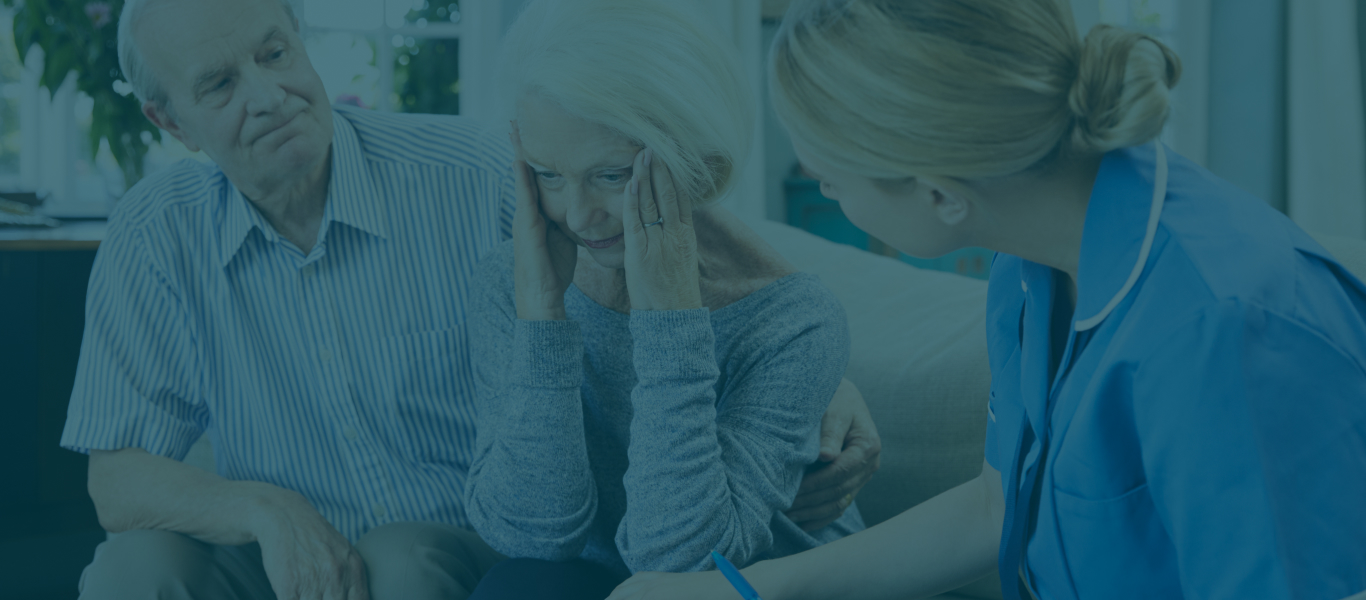
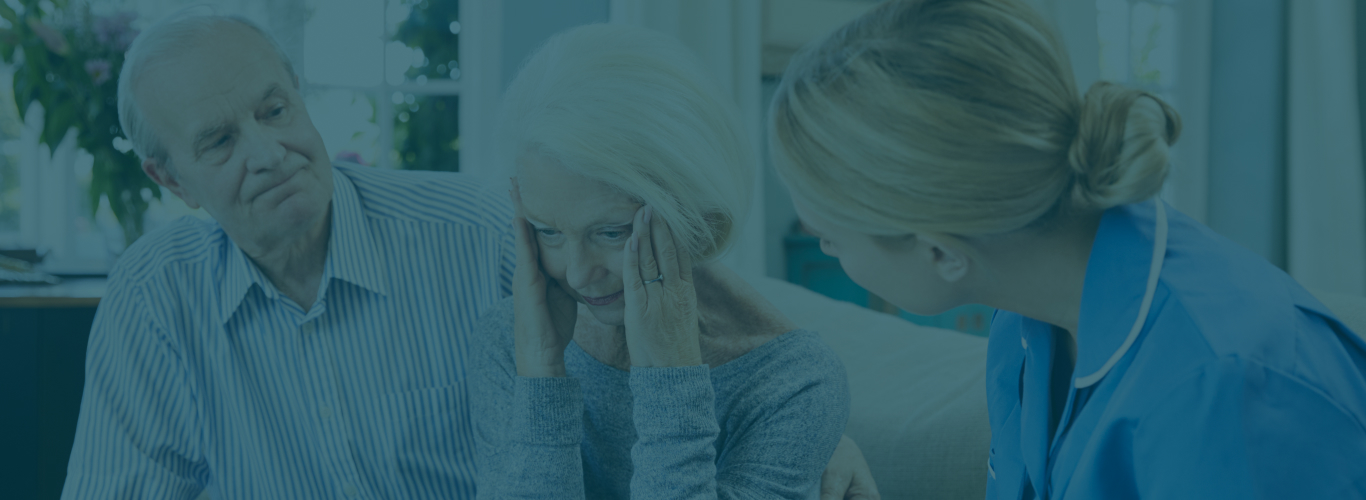
new changes

diff --git a/src/components/HeroBanners.jsx b/src/components/HeroBanners.jsx
@@ -2,14 +2,22 @@ import Carousel from "react-bootstrap/Carousel";
 import Banner_1 from "../assets/Banner_1.jpg";
 import Banner_2 from "../assets/Banner_2.jpg";
 import Banner_3 from "../assets/Banner_3.jpg";
+import Mobile_Banner_1 from "../assets/Mobile_Banner_1.jpg";
+import Mobile_Banner_2 from "../assets/Mobile_Banner_2.jpg";
+import Mobile_Banner_3 from "../assets/Mobile_Banner_3.jpg";
 import { useMediaQuery } from "react-responsive";
 
 function UncontrolledExample() {
-  const isMobile = useMediaQuery({ maxWidth: 768 });
+  const isMobile = useMediaQuery({ maxWidth: 475 });
   return (
     <Carousel>
       <Carousel.Item className="banner">
-        <img src={Banner_1} alt="First slide" className="" />
+        {isMobile ? (
+          <img src={Mobile_Banner_1} alt="First slide" className="" />
+        ) : (
+          <img src={Banner_1} alt="First slide" className="" />
+        )}
+
         <Carousel.Caption className="banner_caption">
           <h1 className={isMobile ? "fs-4 fw-semibold" : "fw-semibold"}>
             Compassion Is At The Heart Of Our Care
@@ -17,7 +25,11 @@ function UncontrolledExample() {
         </Carousel.Caption>
       </Carousel.Item>
       <Carousel.Item className="banner">
-        <img src={Banner_2} alt="First slide" />
+        {isMobile ? (
+          <img src={Mobile_Banner_2} alt="First slide" className="" />
+        ) : (
+          <img src={Banner_2} alt="First slide" className="" />
+        )}
         <Carousel.Caption className="banner_caption">
           <h1 className={isMobile ? "fs-4 fw-semibold" : "fw-semibold"}>
             24 Hours In-Home Care
@@ -25,7 +37,11 @@ function UncontrolledExample() {
         </Carousel.Caption>
       </Carousel.Item>
       <Carousel.Item className="banner">
-        <img src={Banner_3} alt="First slide" />
+        {isMobile ? (
+          <img src={Mobile_Banner_3} alt="First slide" className="" />
+        ) : (
+          <img src={Banner_3} alt="First slide" className="" />
+        )}
         <Carousel.Caption className="banner_caption">
           <h1 className={isMobile ? "fs-4 fw-semibold" : "fw-semibold"}>
             Post-Hospitalization Home Health Care

diff --git a/src/components/NavBar.jsx b/src/components/NavBar.jsx
@@ -3,20 +3,20 @@ import Nav from "react-bootstrap/Nav";
 import Navbar from "react-bootstrap/Navbar";
 import NavDropdown from "react-bootstrap/NavDropdown";
 import { Link } from "react-router-dom";
-import Logo from "../assets/carehub-logo.jpg";
+import Logo from "../assets/logo.png";
 import { useMediaQuery } from "react-responsive";
 
 const services = [
-  "Private at Home Nursing Care Services",
+  "Home Nursing",
   "24 Hours In-Home Care",
-  "Ventilator Care at Home",
-  "Post Hospitalization Home Health Care services",
-  "Nurses that come to your house",
-  "Palliative care Services at home",
+  "Ventilator Care",
+  "Post Hospitalization",
+  "Nurses Visit",
+  "Palliative care",
   "Elderly Care Services",
-  "Post Operative Care Services at Home",
-  "Pediatric Palliative care Services at Home",
-  "Paralytic Care Services at home",
+  "Post Operative Care",
+  "Pediatric Palliative care",
+  "Paralytic Care",
 ];
 
 export default function NavBar() {
@@ -32,7 +32,7 @@ export default function NavBar() {
           id="basic-navbar-nav"
           className={isMobile && "mobile-toggle"}
         >
-          <Nav className="mx-auto nav_item">
+          <Nav className="ms-auto me-5 nav_item">
             <Nav.Link as={Link} to={"/"}>
               Home
             </Nav.Link>

diff --git a/src/index.css b/src/index.css
@@ -112,7 +112,8 @@ p {
   font-weight: 500;
 }
 .mobile-toggle {
-  height: 100vh;
+  padding-bottom: 2rem;
+  height: auto;
 }
 .mobile-toggle .nav_item {
   gap: 0.2rem;
@@ -143,15 +144,10 @@ p {
   color: white;
 }
 
-@media (min-width: 991px) {
-  .banner {
-    height: 460px;
-  }
-}
 @media (max-width: 475px) {
   .banner_caption {
     position: absolute;
-    top: 25%;
+    top: 36%;
   }
 }
 
